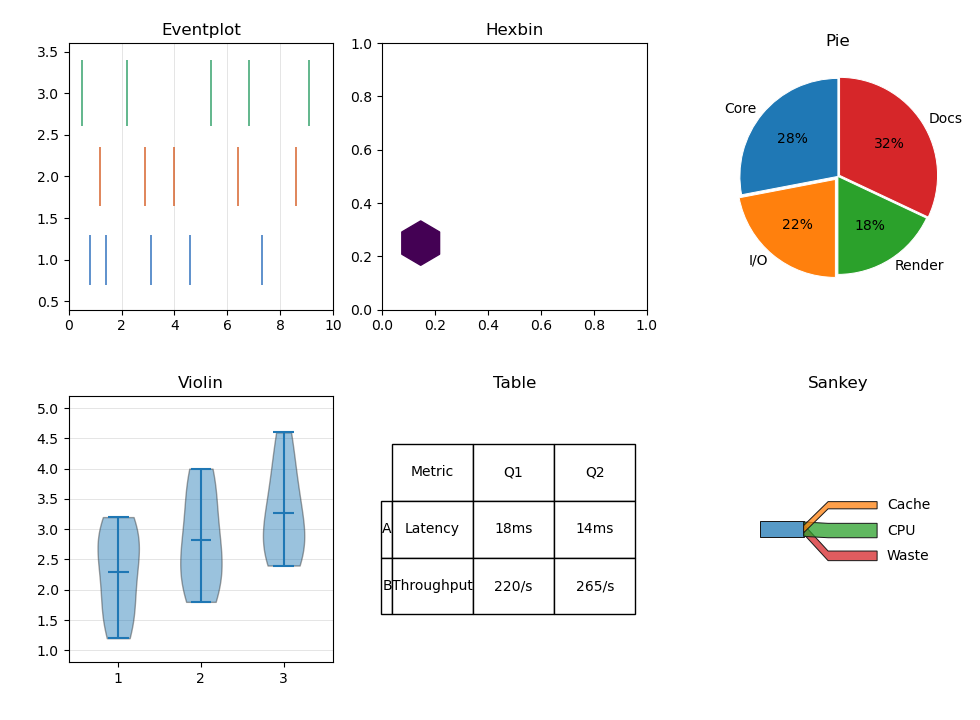
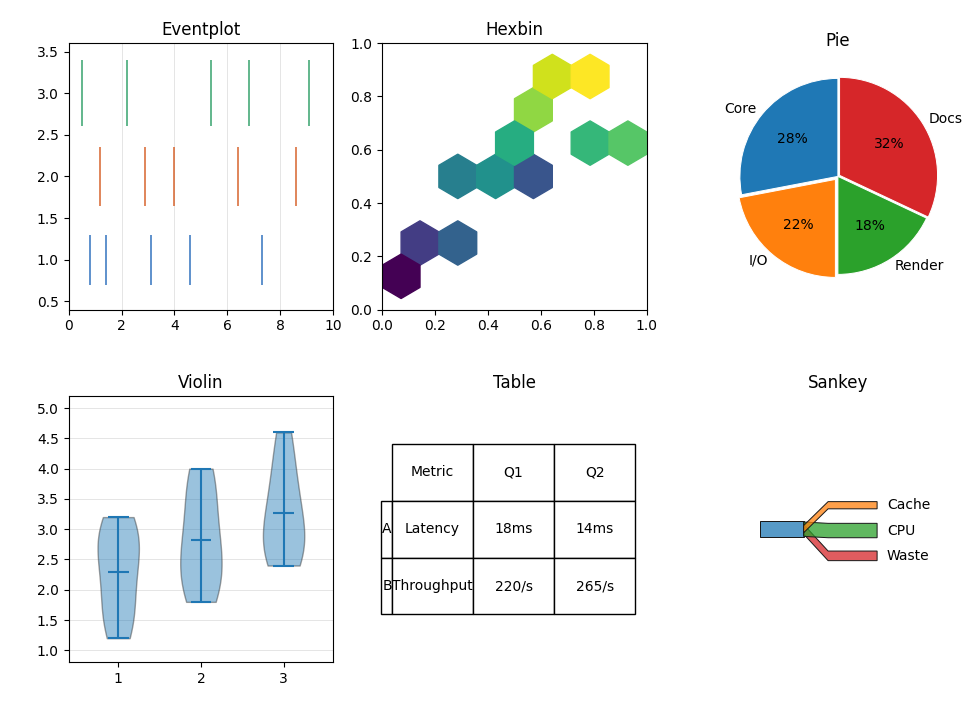
feat: add TextAlign option to AnchoredText for improved text alignment and update showcase examples

diff --git a/examples/unstructured/showcase/showcase.go b/examples/unstructured/showcase/showcase.go
@@ -21,6 +21,16 @@ func UnstructuredShowcase() *core.Figure {
 
 	tri, values := sampleTriangulation()
 
+	// Mirror the Python example's bbox=dict(boxstyle="round,pad=...",
+	// facecolor="white", edgecolor=(0.75,0.75,0.75,1.0)) styling. Padding
+	// and CornerRadius are in pixels here; matplotlib's pad is in fontsize
+	// units (points), so multiply by DPI/72 to convert. matplotlib's
+	// "round" boxstyle defaults rounding_size to the pad value.
+	bboxBorder := render.Color{R: 0.75, G: 0.75, B: 0.75, A: 1}
+	bboxFace := render.Color{R: 1, G: 1, B: 1, A: 1}
+	axTextPadPx := 0.3 * 10.0 * float64(DPI) / 72.0
+	figTextPadPx := 0.35 * 11.0 * float64(DPI) / 72.0
+
 	meshAx := fig.AddAxes(geom.Rect{
 		Min: geom.Pt{X: 0.05, Y: 0.16},
 		Max: geom.Pt{X: 0.31, Y: 0.88},
@@ -33,8 +43,24 @@ func UnstructuredShowcase() *core.Figure {
 		LineWidth: &meshWidth,
 		Label:     "triplot",
 	})
+	// Mirror Python ax.text(0.98, 0.02, ..., ha="right", va="bottom",
+	// transform=ax.transAxes): place the bbox so its lower-right corner sits
+	// at axes-fraction (0.98, 0.02), padded outward by `pad` so the text edge
+	// (not the bbox edge) lands at 0.98/0.02.
 	meshAx.AddAnchoredText("explicit triangular mesh", core.AnchoredTextOptions{
-		Location: core.LegendLowerRight,
+		Locator: core.BBoxToAnchorLocator{
+			X: 0.98, Y: 0.02,
+			Location: core.LegendLowerRight,
+			OffsetX:  axTextPadPx,
+			OffsetY:  axTextPadPx,
+		},
+		FontSize:        10,
+		Padding:         axTextPadPx,
+		CornerRadius:    axTextPadPx,
+		BackgroundColor: bboxFace,
+		BorderColor:     bboxBorder,
+		BorderWidth:     1,
+		TextAlign:       core.TextAlignRight,
 	})
 
 	colorAx := fig.AddAxes(geom.Rect{
@@ -80,8 +106,23 @@ func UnstructuredShowcase() *core.Figure {
 		LevelCount: 7,
 	})
 
+	// Mirror Python fig.text(0.98, 0.98, ..., ha="right", va="top"): place the
+	// bbox so its upper-right corner sits at figure-fraction (0.98, 0.98),
+	// padded outward by `pad` so the text edge lands exactly at the anchor.
 	fig.AddAnchoredText("unstructured gallery family\ntriangulation, tripcolor, tricontour", core.AnchoredTextOptions{
-		Location: core.LegendUpperRight,
+		Locator: core.BBoxToAnchorLocator{
+			X: 0.98, Y: 0.98,
+			Location: core.LegendUpperRight,
+			OffsetX:  figTextPadPx,
+			OffsetY:  -figTextPadPx,
+		},
+		FontSize:        11,
+		Padding:         figTextPadPx,
+		CornerRadius:    figTextPadPx,
+		BackgroundColor: bboxFace,
+		BorderColor:     bboxBorder,
+		BorderWidth:     1,
+		TextAlign:       core.TextAlignRight,
 	})
 
 	return fig

diff --git a/core/anchored_text.go b/core/anchored_text.go
@@ -22,6 +22,10 @@ type AnchoredTextOptions struct {
 	TextColor       render.Color
 	BorderWidth     float64
 	FontSize        float64
+	// TextAlign controls horizontal alignment of multi-line text inside the
+	// box; mirrors matplotlib's text(..., ha=...) parameter. Defaults to
+	// TextAlignLeft.
+	TextAlign TextAlign
 }
 
 // AnchoredTextBox draws a boxed block of text anchored to an axes or figure corner.
@@ -40,6 +44,7 @@ type AnchoredTextBox struct {
 	TextColor       render.Color
 	BorderWidth     float64
 	FontSize        float64
+	TextAlign       TextAlign
 	z               float64
 }
 
@@ -109,6 +114,7 @@ func newAnchoredTextBox(text string, rc style.RC, opts ...AnchoredTextOptions) *
 		if opt.FontSize > 0 {
 			cfg.FontSize = opt.FontSize
 		}
+		cfg.TextAlign = opt.TextAlign
 	}
 
 	return &AnchoredTextBox{
@@ -125,6 +131,7 @@ func newAnchoredTextBox(text string, rc style.RC, opts ...AnchoredTextOptions) *
 		TextColor:       cfg.TextColor,
 		BorderWidth:     cfg.BorderWidth,
 		FontSize:        cfg.FontSize,
+		TextAlign:       cfg.TextAlign,
 		z:               950,
 	}
 }
@@ -164,20 +171,27 @@ func (a *AnchoredTextBox) Draw(r render.Renderer, ctx *DrawContext) {
 	})
 
 	y := boxLayout.contentBox.Min.Y + boxLayout.padding
+	leftX := boxLayout.contentBox.Min.X + boxLayout.padding
+	rightX := boxLayout.contentBox.Max.X - boxLayout.padding
 	for i, line := range lines {
 		layout := layouts[i]
 		if line == "" {
 			y += a.lineAdvance(fontSize, ctx)
 			continue
 		}
-		anchor := geom.Pt{
-			X: boxLayout.contentBox.Min.X + boxLayout.padding,
-			Y: y,
+		var anchorX float64
+		switch a.TextAlign {
+		case TextAlignRight:
+			anchorX = rightX
+		case TextAlignCenter:
+			anchorX = (leftX + rightX) / 2
+		default:
+			anchorX = leftX
 		}
 		drawDisplayText(
 			textRen,
 			line,
-			alignedSingleLineOrigin(anchor, layout, TextAlignLeft, textLayoutVAlignTop),
+			alignedSingleLineOrigin(geom.Pt{X: anchorX, Y: y}, layout, a.TextAlign, textLayoutVAlignTop),
 			fontSize,
 			resolvedTextColor(a.TextColor, ctx),
 			ctx.RC.FontKey,

diff --git a/core/contour.go b/core/contour.go
@@ -433,8 +433,11 @@ func contourLevels(values, explicit []float64, levelCount int, filled bool) []fl
 }
 
 func contourLocatorLevels(minValue, maxValue float64, levelCount int, filled bool) []float64 {
+	// Match matplotlib's _ensure_locator_exists: MaxNLocator(N + 1, min_n_ticks=1).
+	// For levels=N the locator is asked for N+1 intervals so the resulting "nice" step
+	// is roughly (zmax-zmin)/(N+1) — matching ContourSet._autolev's tick layout.
 	levels := (MaxNLocator{
-		N:     levelCount,
+		N:     levelCount + 1,
 		Steps: []float64{1, 1.5, 2, 2.5, 3, 4, 5, 6, 8, 10},
 	}).Ticks(minValue, maxValue, 0)
 	if len(levels) == 0 {